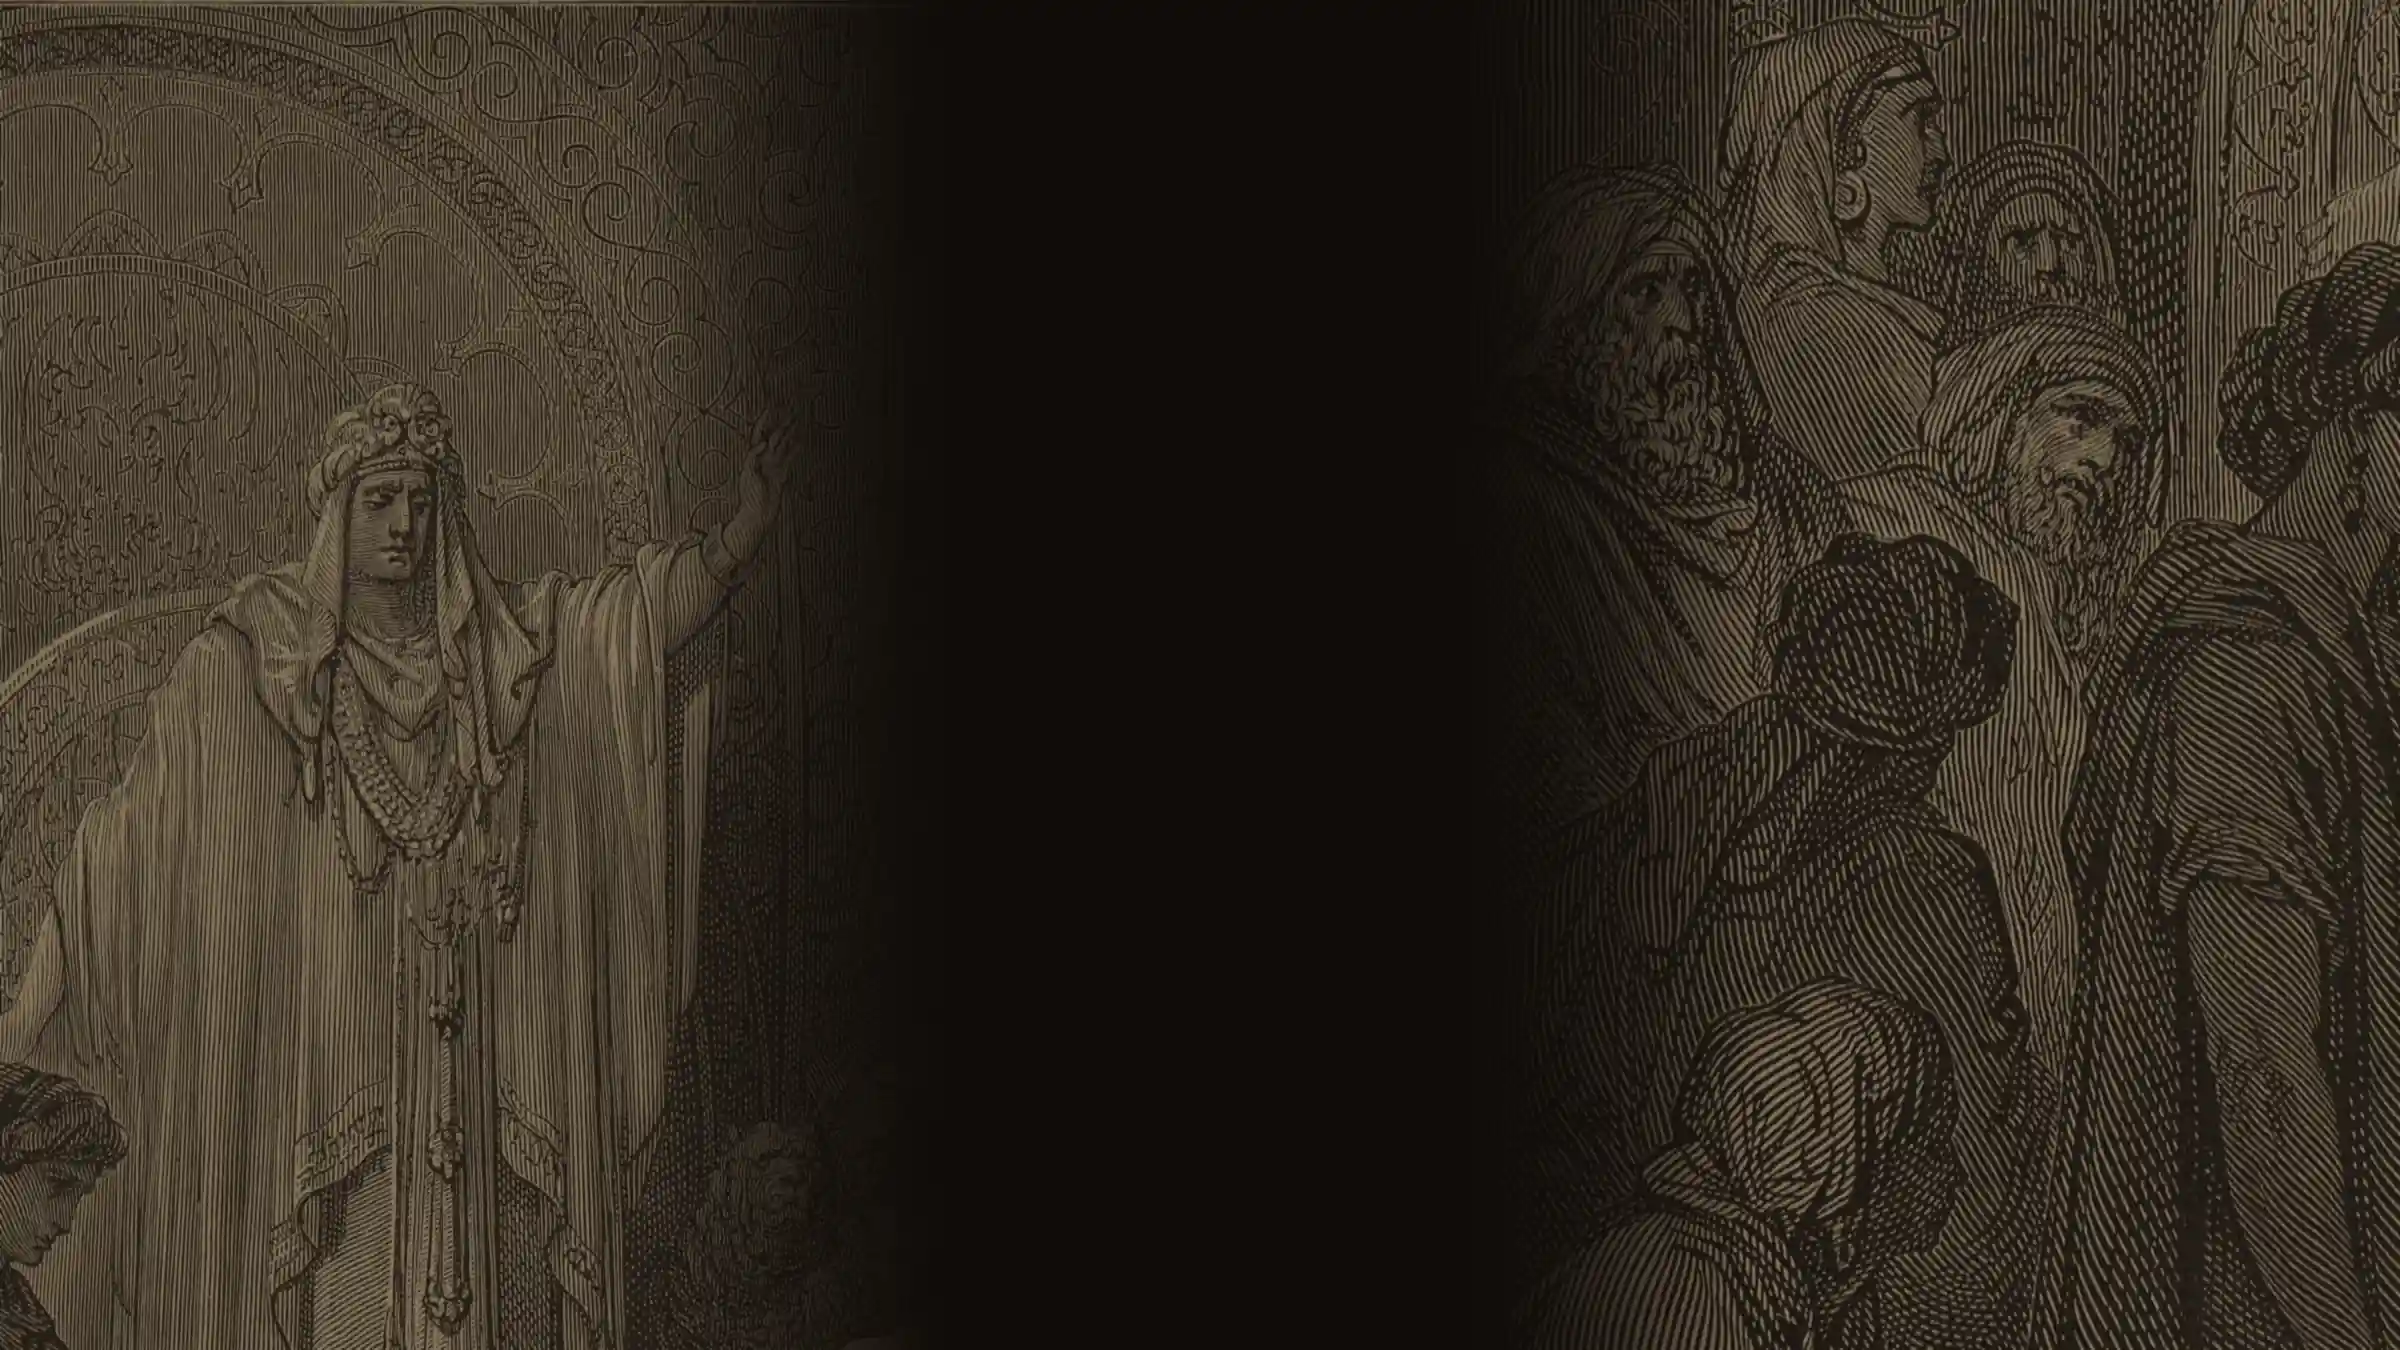
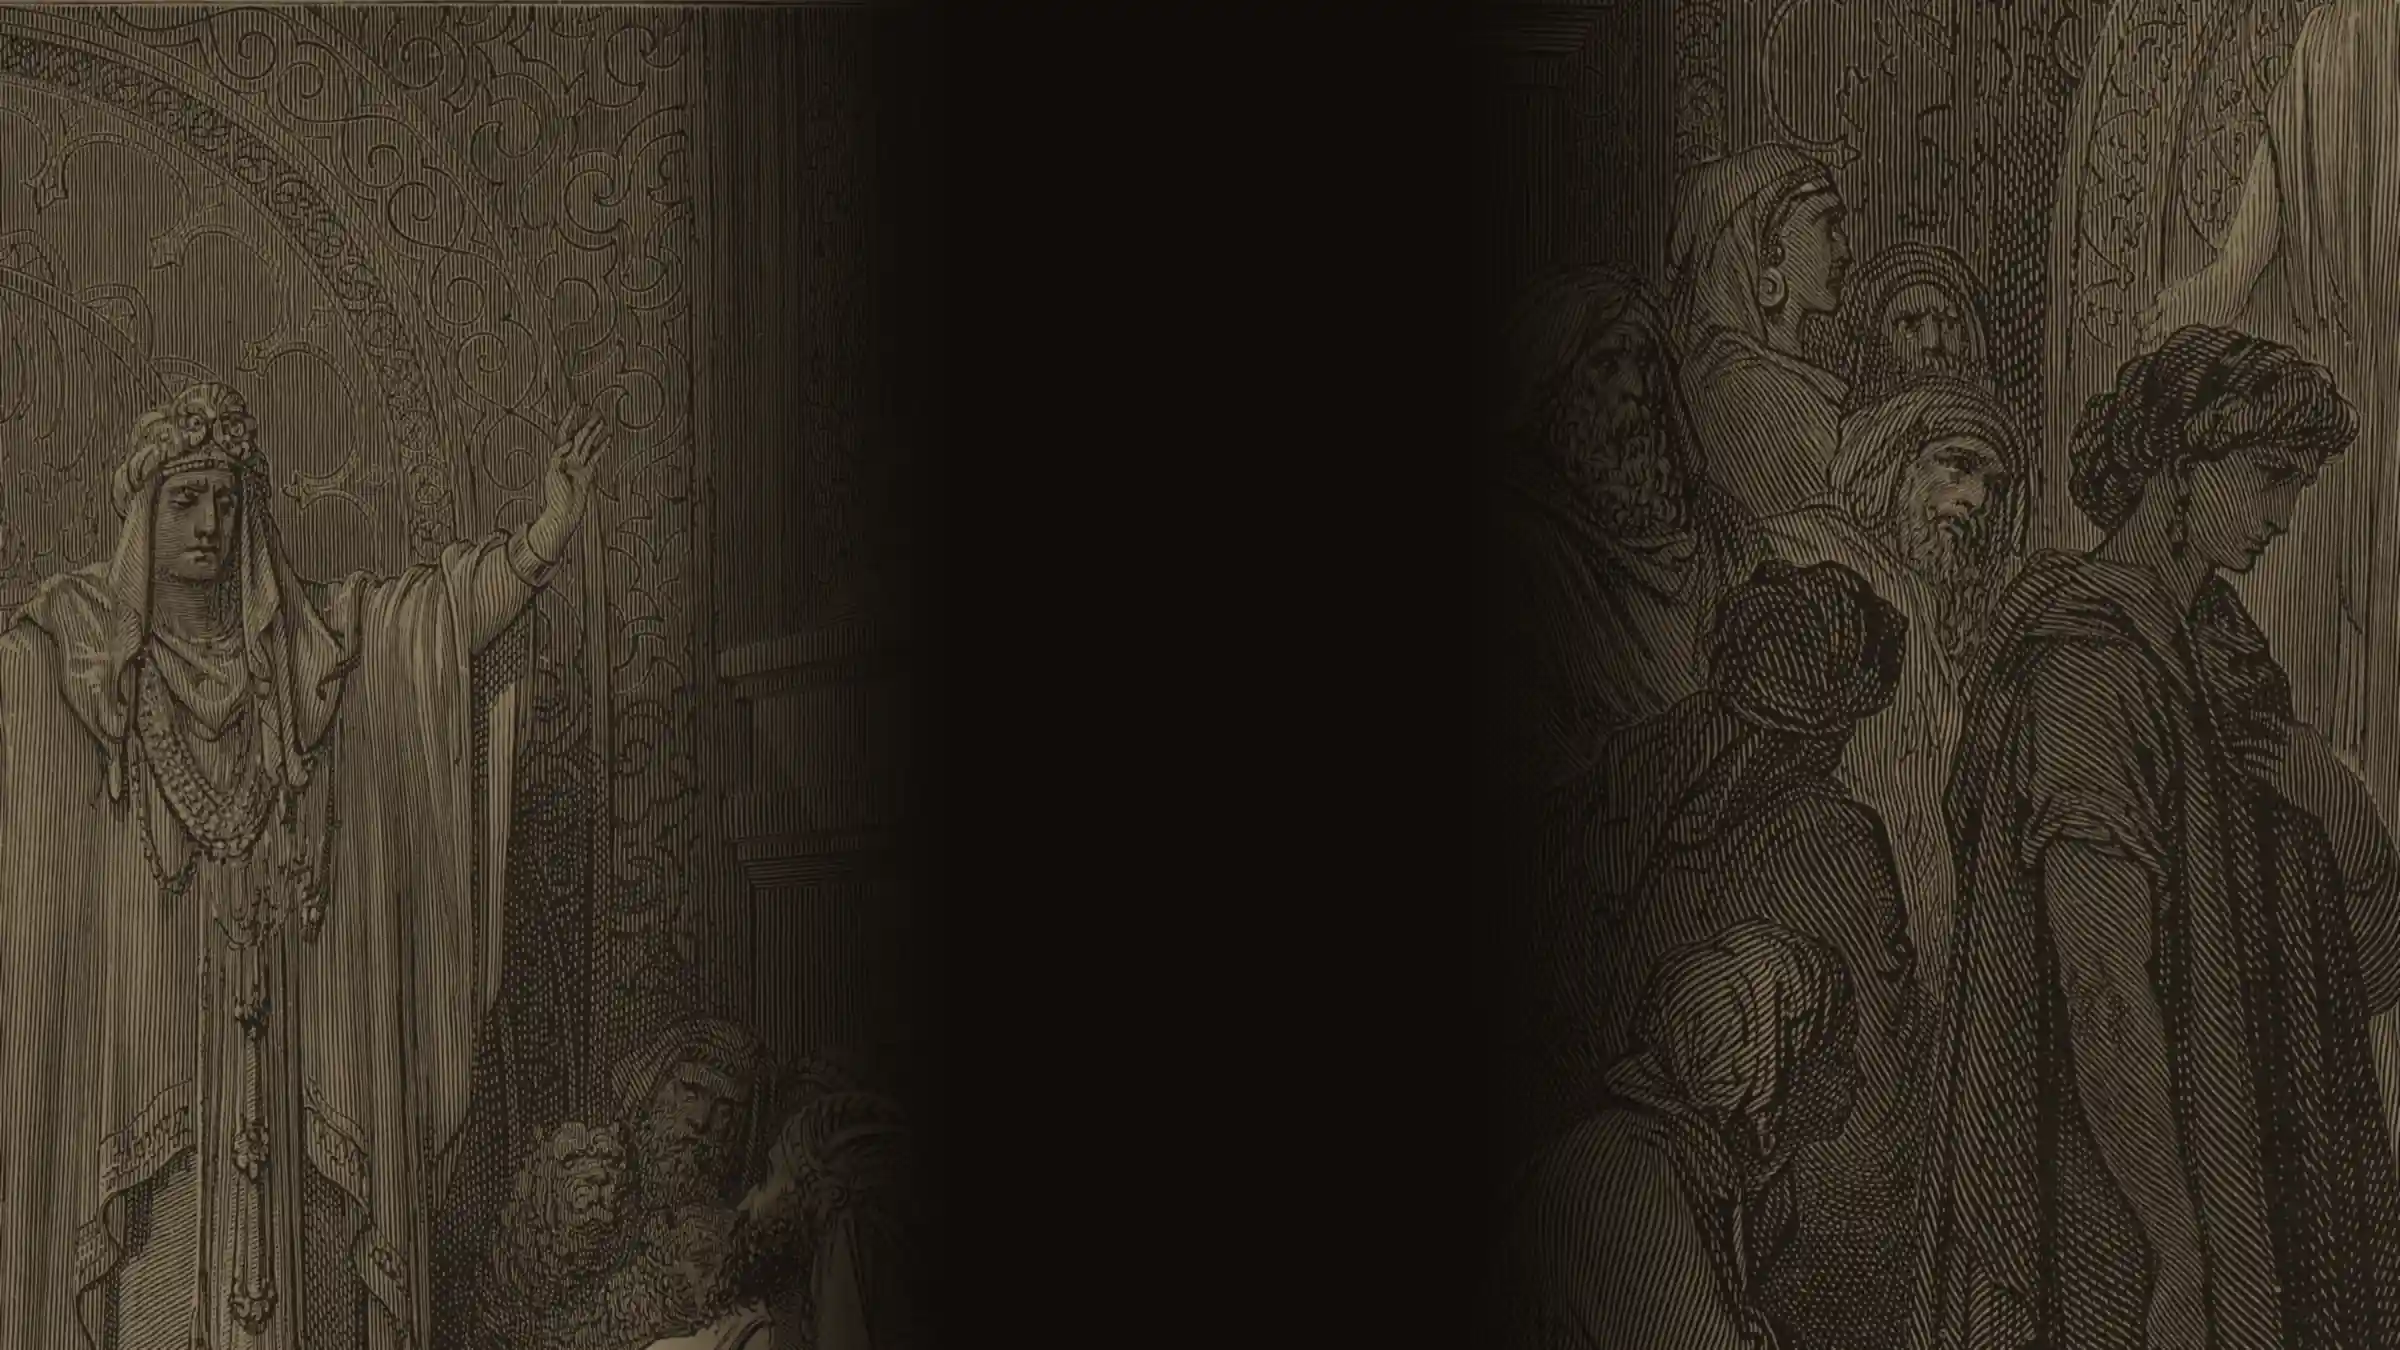
fix(art): Design r145 re-crops (desk 2400/1600/900, week, groups), reduced-data selector, ATTRIBUTION fixes
- Desk 2400: L (.535,.225,.45) R (.16,.45,.371); the standing woman shows once, Solomon whole from 1600px
- Desk 1600 box(.12,0,.71,.30): the raised hand stays behind the column below 1600px
- Desk 900 box(.315,0,.605,.42): drops the turban sliver, keeps the scan's aspect
- Week L (.33,.755,.50): Jacob's head shows from 1600px
- Groups (.18,.59,.60)/(.82,.54,.60): both panels end at the painting's edges, no cut faces
- prefers-reduced-data now matches [data-entered]>.plate-ground so it wins the cascade
- ATTRIBUTION: no margin plates line; state the 2400 upscales

Changed region(s): [[0.6562, 0.0, 1.0, 1.0], [0.0, 0.0, 0.3438, 1.0]]

diff --git a/src/lib/board/art-two-sides.test.ts b/src/lib/board/art-two-sides.test.ts
@@ -20,7 +20,7 @@ type Panel = { artist: string; work: string; box: [number, number, number, numbe
 /** What each edge of each wide plate shows: source work and crop box (x0, y0, x1, y1, as fractions of the scan). */
 const PLATES: Record<string, { left: Panel; right: Panel }> = {
   "plate-week-A-2400.webp": {
-    left: { artist: "Gustave Doré", work: "Jacob's Dream", box: [0, 0.45, 0.441, 0.95] },
+    left: { artist: "Gustave Doré", work: "Jacob's Dream", box: [0.109, 0.5, 0.55, 1.0] },
     right: { artist: "Gustave Doré", work: "Jacob's Dream", box: [0.422, 0.055, 0.819, 0.505] },
   },
   "plate-rooms-A-2400.webp": {
@@ -32,8 +32,8 @@ const PLATES: Record<string, { left: Panel; right: Panel }> = {
     right: { artist: "Gustave Doré", work: "The Sermon on the Mount", box: [0.627, 0.55, 0.973, 0.91] },
   },
   "plate-groups-A-2400.webp": {
-    left: { artist: "Albrecht Dürer", work: "The Feast of the Rose Garlands", box: [0.09, 0.32, 0.451, 0.92] },
-    right: { artist: "Albrecht Dürer", work: "The Feast of the Rose Garlands", box: [0.599, 0.28, 0.96, 0.88] },
+    left: { artist: "Albrecht Dürer", work: "The Feast of the Rose Garlands", box: [0, 0.29, 0.361, 0.89] },
+    right: { artist: "Albrecht Dürer", work: "The Feast of the Rose Garlands", box: [0.639, 0.24, 1.0, 0.84] },
   },
   "plate-group-A-2400.webp": {
     left: { artist: "Gustave Doré", work: "Ruth and Boaz", box: [0, 0.225, 0.492, 0.775] },
@@ -52,8 +52,8 @@ const PLATES: Record<string, { left: Panel; right: Panel }> = {
     right: { artist: "Albrecht Dürer", work: "Self-Portrait, 1500", box: [0.179, 0.115, 0.621, 0.565] },
   },
   "plate-desk-A-2400.webp": {
-    left: { artist: "Gustave Doré", work: "The Judgment of Solomon", box: [0.258, 0, 0.652, 0.45] },
-    right: { artist: "Gustave Doré", work: "The Judgment of Solomon", box: [0, 0.3, 0.263, 0.6] },
+    left: { artist: "Gustave Doré", work: "The Judgment of Solomon", box: [0.338, 0, 0.732, 0.45] },
+    right: { artist: "Gustave Doré", work: "The Judgment of Solomon", box: [0, 0.265, 0.325, 0.636] },
   },
   // The door's plate, already 2400 wide: its left and its right half.
   "martin-hero-A.webp": {

diff --git a/src/lib/board/page-craft.test.ts b/src/lib/board/page-craft.test.ts
@@ -111,7 +111,12 @@ test("Save-Data clears the plate's background-image and hides the credit", () =>
     assert.equal(page.credit.display, "none", section);
   }
   assert.equal(render({ section: "groups", view: "group", saveData: true }).ground.backgroundImage, "none");
-  assert.match(block(craft, "(prefers-reduced-data:reduce)"), /\.plate-ground\{background-image:none;animation:none\}/);
+  // Design r145: the reduced-data rule must outrank [data-entered]>.plate-ground (0,2,0), so it carries the same selector.
+  const reduced = block(craft, "(prefers-reduced-data:reduce)");
+  assert.match(reduced, /\[data-entered\]>\.plate-ground\{background-image:none;animation:none\}/);
+  assert.match(reduced, /\.pc-credit\{display:none\}/);
+  const entered = craft.indexOf("[data-entered]>.plate-ground{background:");
+  assert.ok(entered >= 0 && entered < craft.indexOf("@media (prefers-reduced-data:reduce)"), "reduced-data comes after the plate rule");
 });
 
 test("Groups and a group sit under v3's scrim and Groups ink weights", () => {

diff --git a/public/page-craft.css b/public/page-craft.css
@@ -97,7 +97,7 @@
 @keyframes pc-settle{from{transform:scale(1.06)}to{transform:none}}
 @keyframes pc-fade{from{opacity:.001}}
 /* Save-Data and reduced data: no plate, solid ground, no credit for a picture that is not shown */
-@media (prefers-reduced-data:reduce){.plate-ground{background-image:none;animation:none}.pc-credit{display:none}}
+@media (prefers-reduced-data:reduce){[data-entered]>.plate-ground{background-image:none;animation:none}.pc-credit{display:none}}
 [data-save-data] .plate-ground{background-image:none;animation:none}
 [data-save-data] .pc-card::before{content:none}
 [data-save-data] .pc-credit{display:none}

diff --git a/public/art/ATTRIBUTION.md b/public/art/ATTRIBUTION.md
@@ -6,7 +6,9 @@ Martin's *Creation of Light* appears on the landing page, the sign-in form, the 
 
 The files in this folder are the Design Critic's duotone WebPs (palette A, Ink & Bone,
 and palette B, Parchment & Lapis). Luminance is mapped from the ground colour to the
-text colour. They are not upscaled past the source scan. CSS lives in
+text colour. Most are not upscaled past the source scan; a few 2400 panels are, by up to
+about 1.5× (Find left 1.38× and right 1.52×, the room's right 1.35×, the desk's right 1.25×),
+softened by the plates' light blur. CSS lives in
 `public/backgrounds.css` and is loaded as its own stylesheet.
 
 `dore-band-A.webp` and `dore-band-B.webp` are those same colour duotones, resized to
@@ -75,8 +77,7 @@ fails if any screen at 1600, 1920 or 2560 shows the same file or panel twice, or
 Rejected: the MFAH photograph of Martin's *Adam and Eve, the Morning Hymn* is CC BY-SA 4.0, not public domain or CC0. None of Martin's destruction scenes are used.
 Rejected: Jost Amman's *Der Schreiner* (1568) for Groups. The Wellcome scan is CC BY 4.0, and the public-domain scans are about 500 px wide, too small without upscaling.
 
-Mobile (max-width 640px) uses the 900px-wide band files. Margin plates are desktop only
-(min-width 1024px). `prefers-reduced-data` drops every plate. The section attribute is
+Mobile (max-width 640px) uses the 900px-wide band files. `prefers-reduced-data` drops every plate. The section attribute is
 set after the first paint, so the images are not part of the largest contentful paint.
 The hero band has a fixed height, so the image does not move the layout when it arrives.
 
